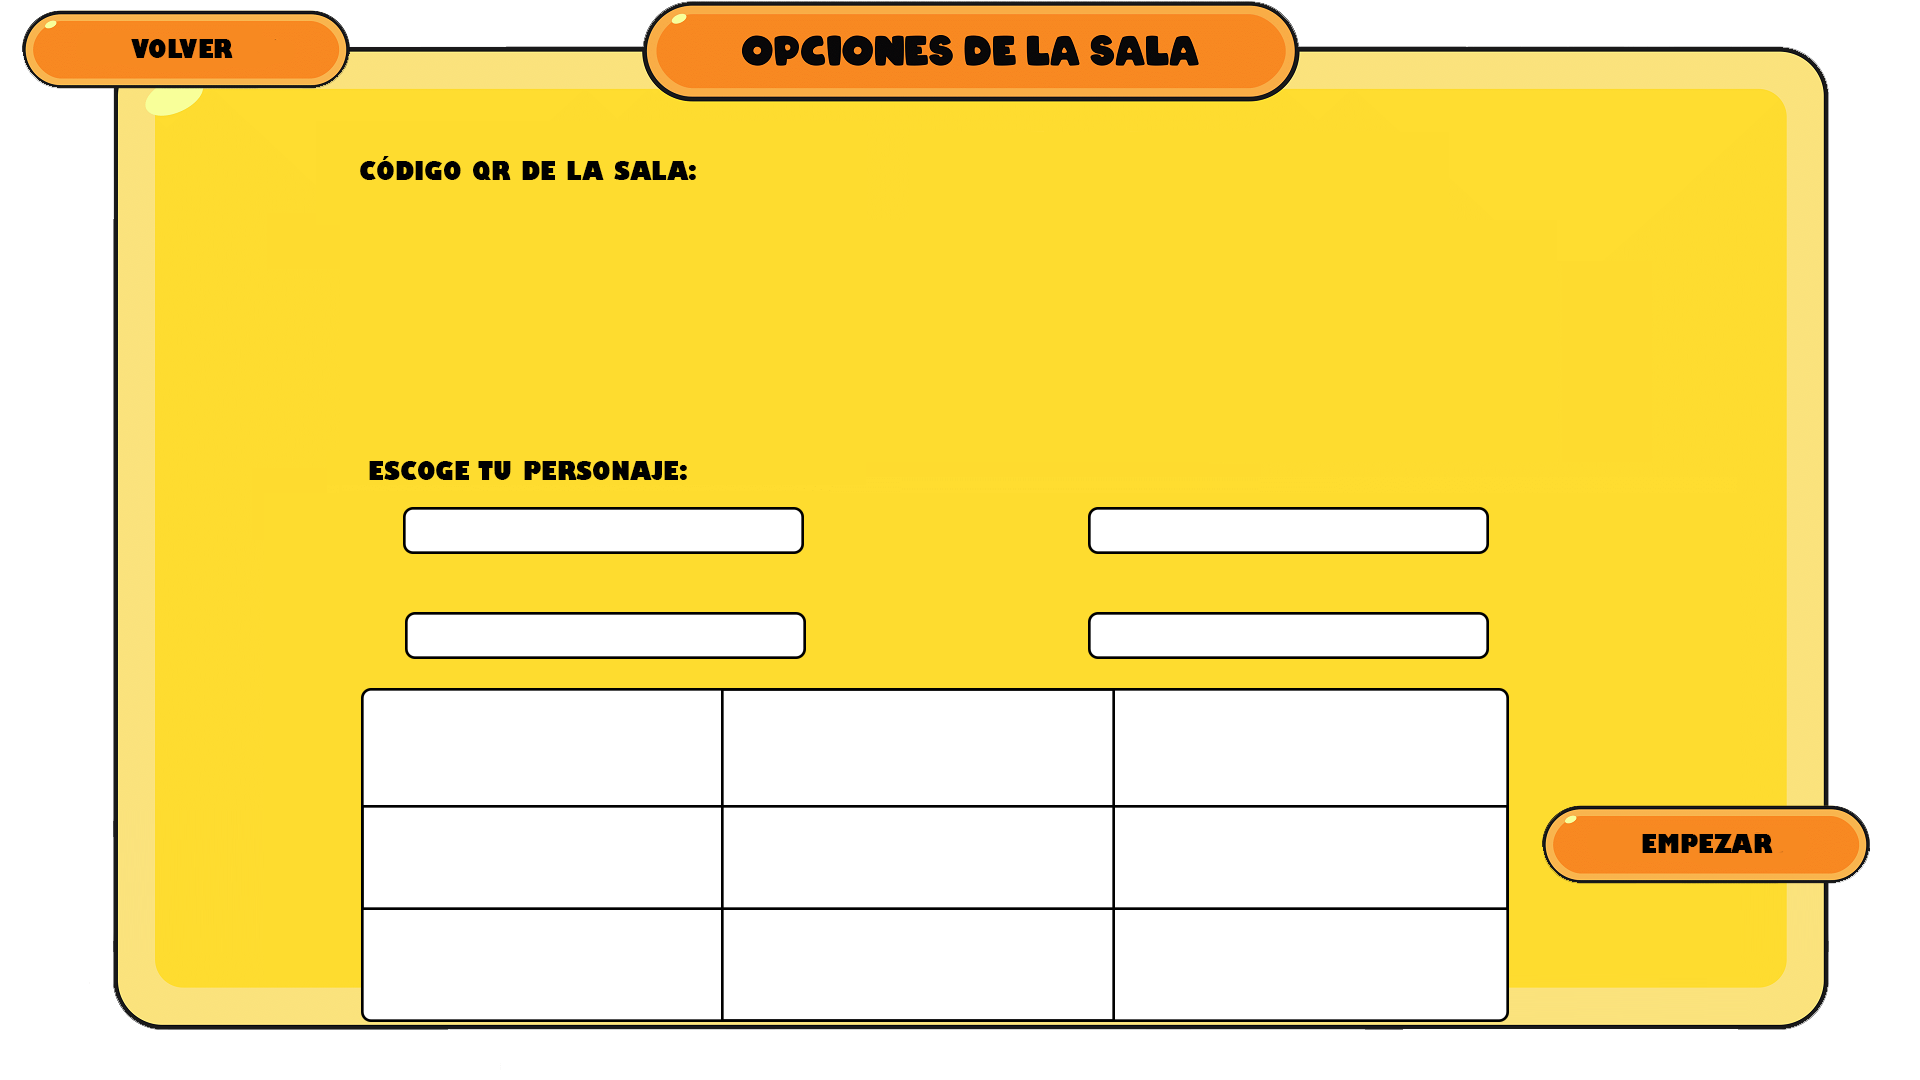
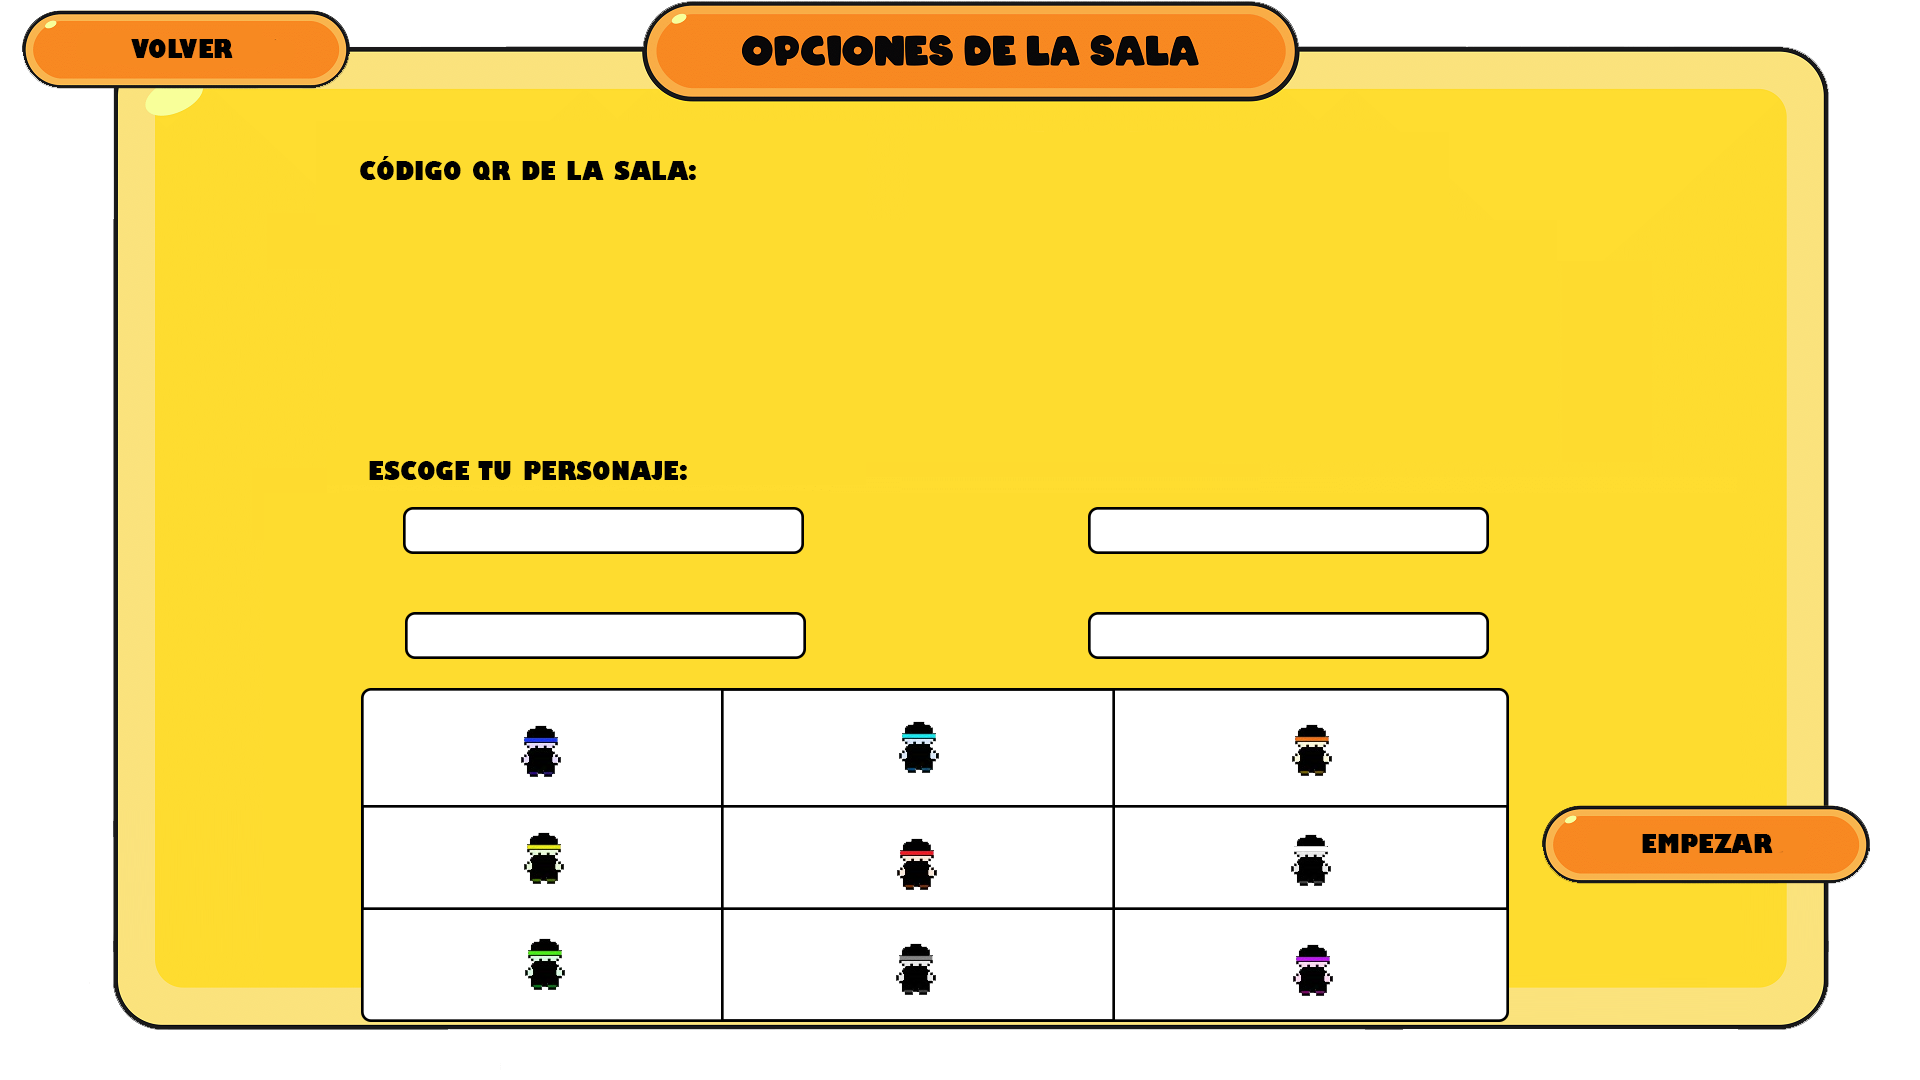
redisenio completado

diff --git a/Game/game.html b/Game/game.html
@@ -131,10 +131,10 @@ localStorage.setItem("personajeSeleccionadoP3", data.personajeSelectP3);
 localStorage.setItem("personajeSeleccionadoP4", data.personajeSelectP4);
 
 localStorage.setItem("tematica",data.tematica);
-localStorage.setItem("gamemode", data.gamemode);
 localStorage.setItem("jugadores", data.jugadores);
 localStorage.setItem("music", data.music);
-localStorage.setItem("designer", data.designerMode);
+
+localStorage.setItem("gamemode", data.gamemode);
 
 
 
@@ -9097,23 +9097,23 @@ this.load.image('newselector', 'https://i.ibb.co/9g64fpg/selector-Mapas2.png');
                  this.load.image('fondo2', 'https://i.ibb.co/8xLBN9F/Menu-Opciones-Normal.png')
                  this.load.image('fondo2mapa2', 'https://i.ibb.co/rQHxxBd/Menu-Opciones-Normal2.png')
                  this.load.image('fondo2mapa3', 'https://i.ibb.co/dKxg1WS/Menu-Opciones-Normal3.png')
-                  this.load.image('bombayexplosion', 'https://i.ibb.co/b6wsKwh/bombayexplosion.png')
+                  this.load.image('bombayexplosion', 'https://i.ibb.co/4dx7dCY/fondofull2.png')
                   this.load.image('seleccion', 'https://i.ibb.co/6ybPkb1/manito3.png');
                   this.load.image('seleccion1P', 'https://i.ibb.co/6ybPkb1/manito3.png');
                   this.load.image('seleccion2P', 'https://i.ibb.co/5GwYbCs/seleccioncuad2.png');
                   this.load.image('seleccion3P', 'https://i.ibb.co/5BZG3R8/seleccioncuad.png');
                   this.load.image('seleccion4P', 'https://i.ibb.co/KWD10Pw/seleccioncuad4.png');
                   
-                    this.load.image('seleccionpersonajes', 'https://i.ibb.co/swp66kg/seleccionpersonajes.png');
-               this.load.image('seleccion2', 'https://i.ibb.co/jLJtTB6/seleccioncuad1.png');
-                 this.load.image('noready', 'https://i.ibb.co/1bcqr5j/sprite-No-Listo.png');
-                  this.load.image('ready', 'https://i.ibb.co/fXmYj8R/sprite-Listo.png');
+                    this.load.image('seleccionpersonajes', 'https://i.ibb.co/JxrZV6x/seleccionpersonajes.png');
+               this.load.image('seleccion2', 'https://i.ibb.co/tC6gfDg/red-selector3.png');
+                 this.load.image('noready', 'https://i.ibb.co/d0QHr8d/sprite-No-Listo.png');
+                  this.load.image('ready', 'https://i.ibb.co/2KHFz7T/sprite-Listo.png');
                     this.load.audio('theme', 'https://sndup.net/2p9z/select.mp3'); 
                      this.load.audio('select', 'https://sndup.net/2p9z/select.mp3'); 
                      
 
-                     this.load.image('popup', 'https://i.ibb.co/58dMc40/popup.png');
-                      this.load.image('dificultad',  'https://i.ibb.co/KKvmtzd/dificultad2.png');
+                     this.load.image('popup', 'https://i.ibb.co/pbnKQbF/popup.png');
+                      this.load.image('dificultad',  'https://i.ibb.co/GTLGCsN/dificultad.png');
 this.load.image('wall4', 'https://i.ibb.co/qpqvwcN/wall5.png');
 
 /*
@@ -9163,8 +9163,8 @@ if(localStorage.getItem("firstRun") != 0)
 {
 
 
-this.mapaTipo = 1;
-this.mapaNumeroEditado = -1;
+
+//this.mapaNumeroEditado = -1;
 
 this.dificultad = 0;
 this.nombreJ1 = "Player"
@@ -9176,15 +9176,14 @@ this.gamemode = 0;
 this.jugadores = 1;
 this.music = 1;
 
-    this.mapaNormalNumero = 1;
+   
 
 }
 else
 {
 
 //this.designerMode = localStorage.getItem("designerMode");
-this.mapaTipo = localStorage.getItem("mapaTipo");
-this.mapaNumeroEditado = localStorage.getItem("mapaNumeroEditado");
+//this.mapaNumeroEditado = localStorage.getItem("mapaNumeroEditado");
 
 this.dificultad = localStorage.getItem("dificultad");
 this.nombreJ1 = localStorage.getItem("nombreJ1");
@@ -9199,7 +9198,7 @@ this.tematica = localStorage.getItem("tematica");
 this.gamemode = localStorage.getItem("gamemode");
 this.jugadores = localStorage.getItem("jugadores");
 this.music = localStorage.getItem("music");
-this.mapaNormalNumero = localStorage.getItem("mapaNormalNumero");
+//this.mapaNormalNumero = localStorage.getItem("mapaNormalNumero");
 //this.designer = localStorage.getItem("designer");
 
 }
@@ -9225,6 +9224,9 @@ this.music = 1;
 this.designer = 1;
 
 */
+ this.mapaNormalNumero = 1;
+this.mapaNumeroEditado = -1;
+this.mapaTipo = 1;
 this.personajeSeleccionadoP1 = 1;
 this.personajeSeleccionadoP2 = 3;
 this.personajeSeleccionadoP3 = 7;
@@ -9242,11 +9244,11 @@ this.seleccionarDif = 0;
 
 
         this.menuexplosion = this.physics.add.sprite(1920/2, 1080/2, 'bombayexplosion');
-             this.menuexplosion4 = this.physics.add.sprite(1920, 1080, 'bombayexplosion');
+        //     this.menuexplosion4 = this.physics.add.sprite(1920, 1080, 'bombayexplosion');
       //  this.menuexplosion.setScale(2);
         //this.menuexplosion4.setScale(2);
        // this.menuexplosion3.setScale(0.5);
-        this.menuexplosion4.setScale(2);
+        //this.menuexplosion4.setScale(2);
       //  this.menuexplosion.setDepth(1000);
         this.menufondo = this.physics.add.sprite(1920/2, 1080/2, 'fondo2');
        
@@ -12143,7 +12145,7 @@ this.readySprite4.setTexture('ready');
 update()
 {
 
-this.menuexplosion.x = this.menuexplosion.x + 2;
+/*this.menuexplosion.x = this.menuexplosion.x + 2;
 this.menuexplosion.y = this.menuexplosion.y + 2;
 
 if(this.menuexplosion.x > 1920/2 +1920/3)
@@ -12159,7 +12161,7 @@ if(this.menuexplosion4.x > 1920/2 + 1920/3)
   this.menuexplosion4.x = 0;
 
 if(this.menuexplosion4.y > 1080/2 + 1080/3)
-  this.menuexplosion4.y = 0;
+  this.menuexplosion4.y = 0;*/
 
 
   if(cursor.includes("NAME1"))
@@ -12460,7 +12462,7 @@ this.seleccionadoSprite.y = 256;
 if(this.seleccionInt ==8)
 {
 
-this.seleccionadoSprite.x = 1113 +413/4;
+this.seleccionadoSprite.x = 1500 +413/4;
 this.seleccionadoSprite.y = 1020;
 
 }
